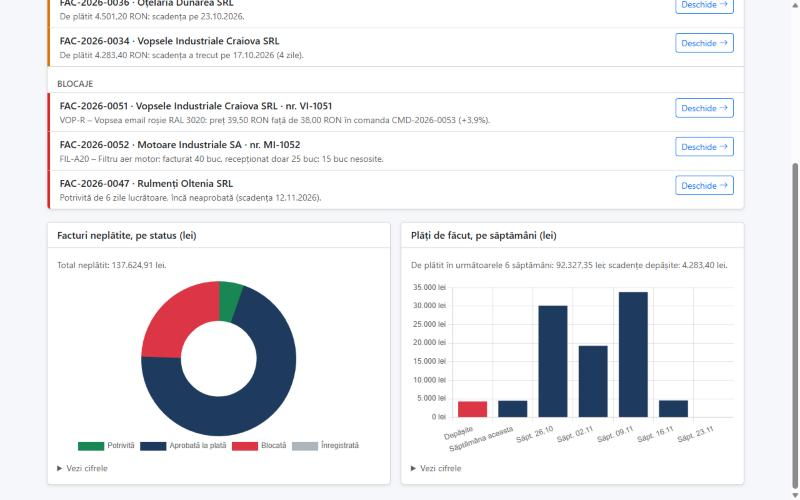
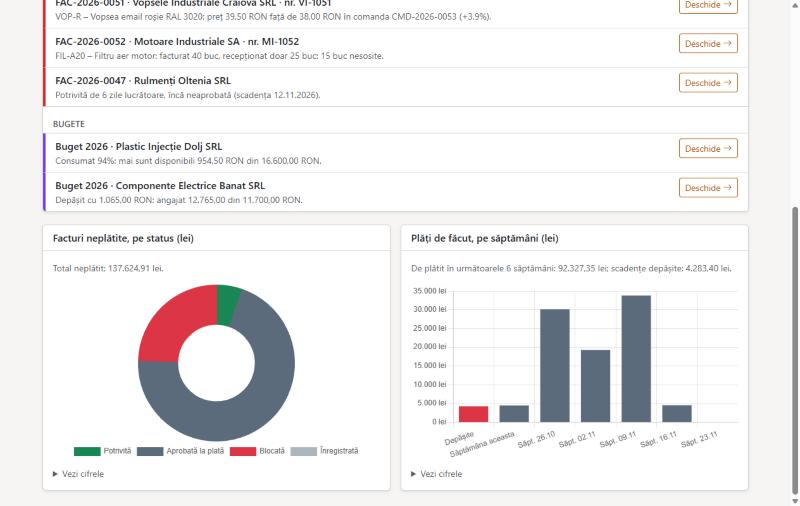
README: capturile de ecran refăcute în tema nouă, plus pagina de bugete

diff --git a/README.md b/README.md
@@ -35,6 +35,9 @@ comandă peste buget pleacă doar cu justificare), import / export Excel, panou 
 ![Panoul Contabilității](docs/img/panou-contabilitate.jpg)
 ![Graficele Contabilității](docs/img/grafice-contabilitate.jpg)
 
+**Bugetele pe furnizor**: plafonul anual, cât s-a angajat și cât a rămas
+![Bugetele pe furnizor](docs/img/bugete.jpg)
+
 **Rezumatul zilnic pe email** (în Mailpit, căsuța de test): fiecare primește doar problemele lui
 ![Emailul zilnic](docs/img/email-rezumat.jpg)
 
